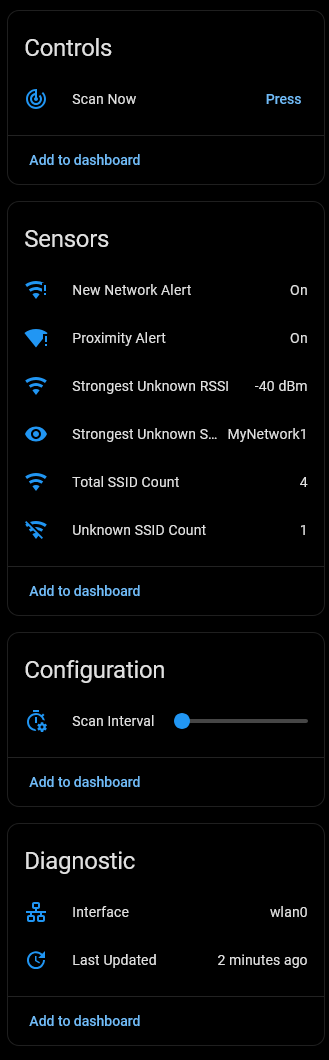
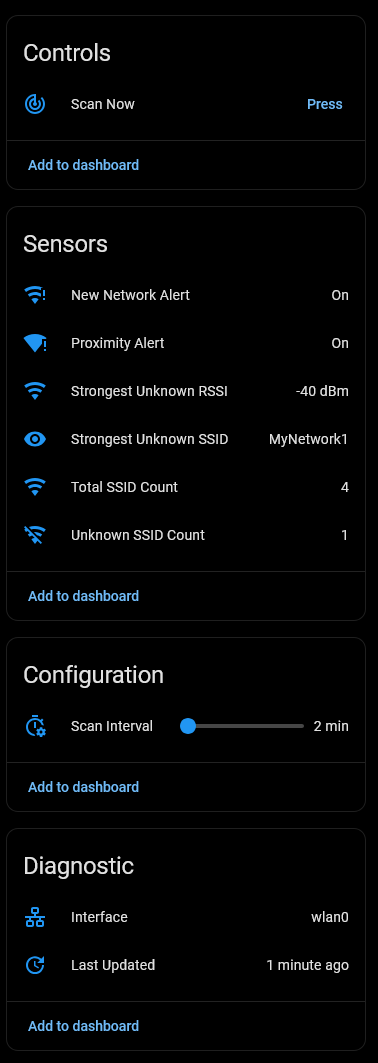
v1.6.1-dev8 Screenshots Docs

diff --git a/README.md b/README.md
@@ -416,11 +416,11 @@ actions:
   <tr>
     <td align="center" valign="top" width="50%">
       <strong>Sensor Entities</strong><br><br>
-      <img src=".github/images/wifi_ssid_mon_sensors_screen.png" alt="Sensor Entities" width="70%">
+      <img src=".github/images/wifi_ssid_mon_sensors_screen.png" alt="Sensor Entities" width="75%">
     </td>
     <td align="center" valign="top" width="50%">
       <strong>Setup</strong><br><br>
-      <img src=".github/images/wifi_ssid_mon_setup_screen.png" alt="Setup" width="90%">
+      <img src=".github/images/wifi_ssid_mon_setup_screen.png" alt="Setup" width="88%">
     </td>
   </tr>
   <tr>